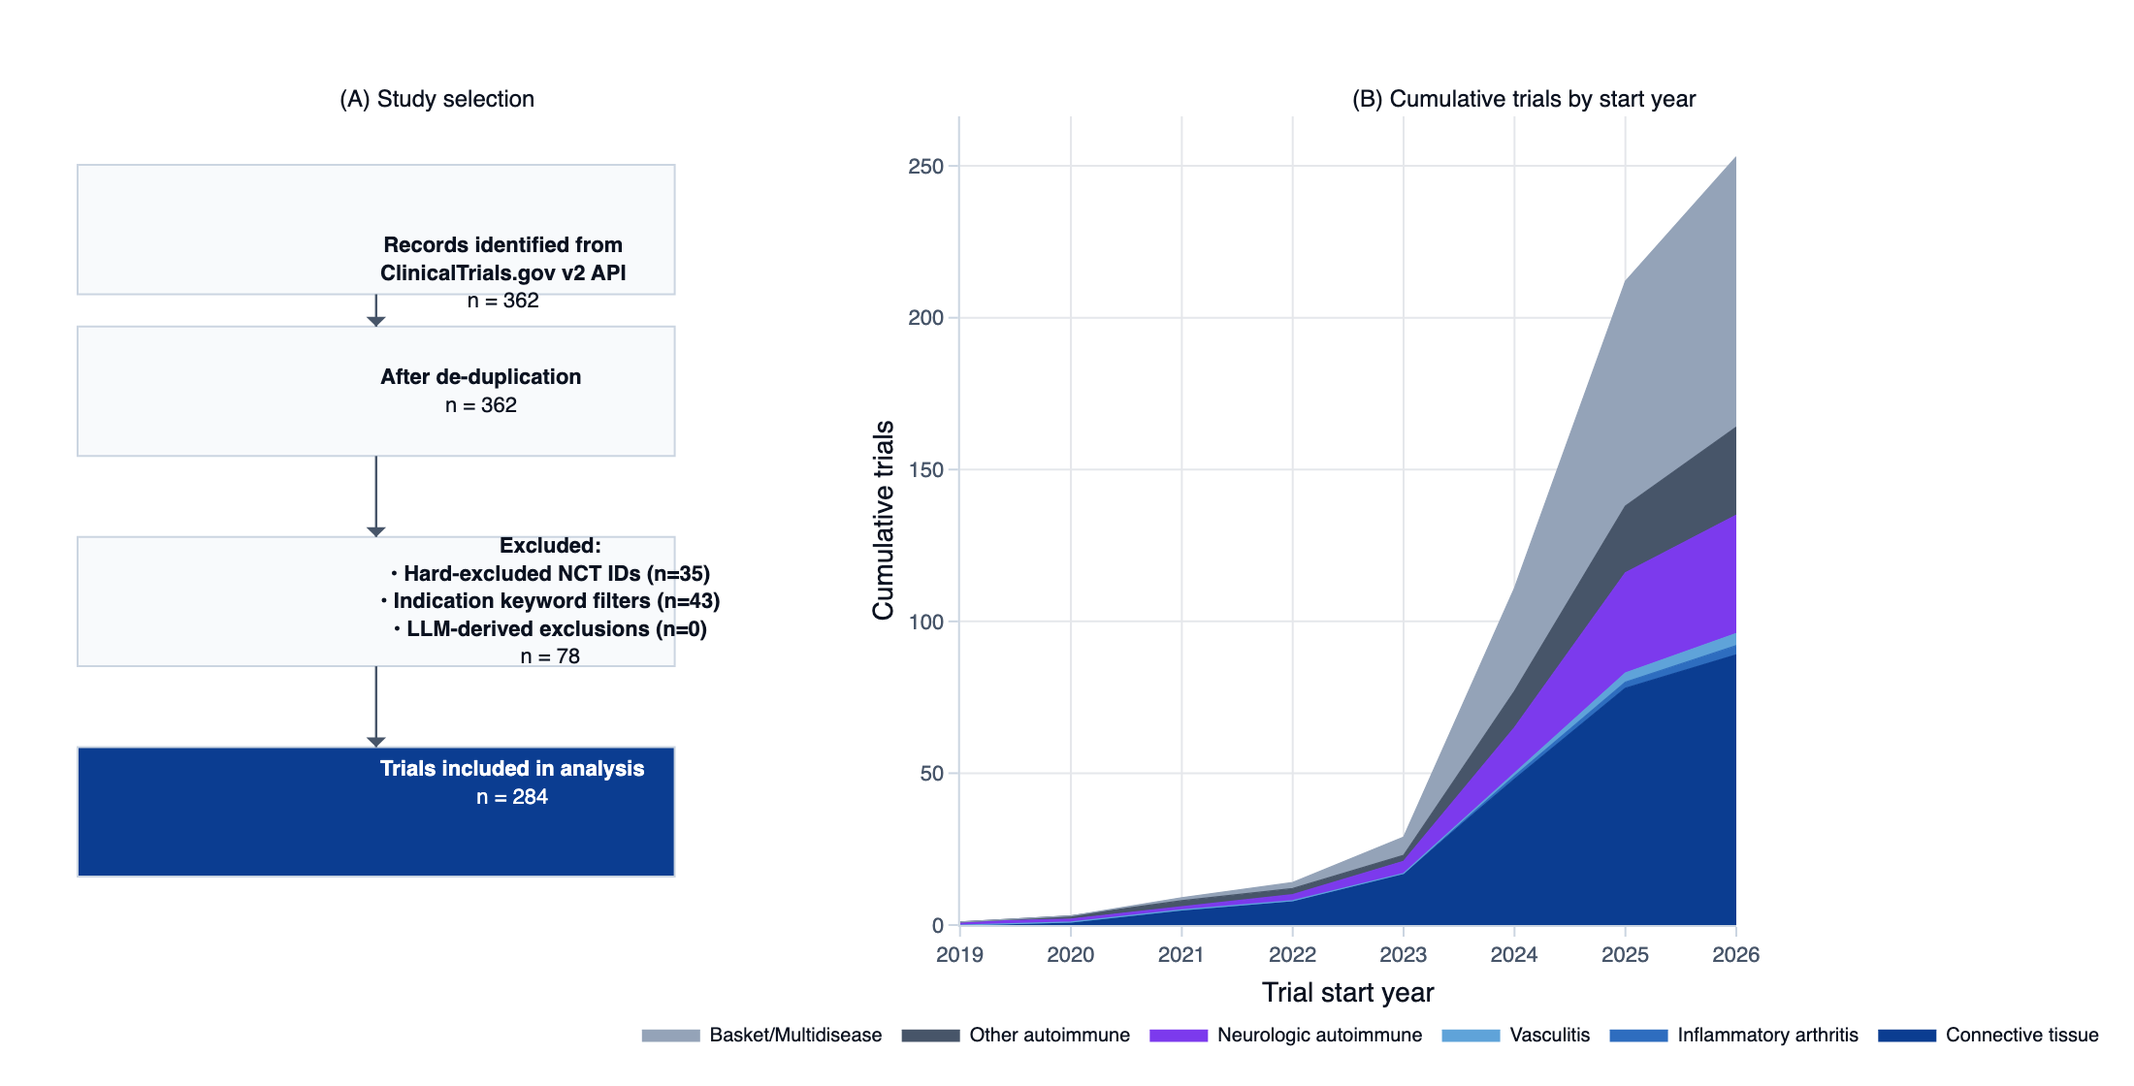
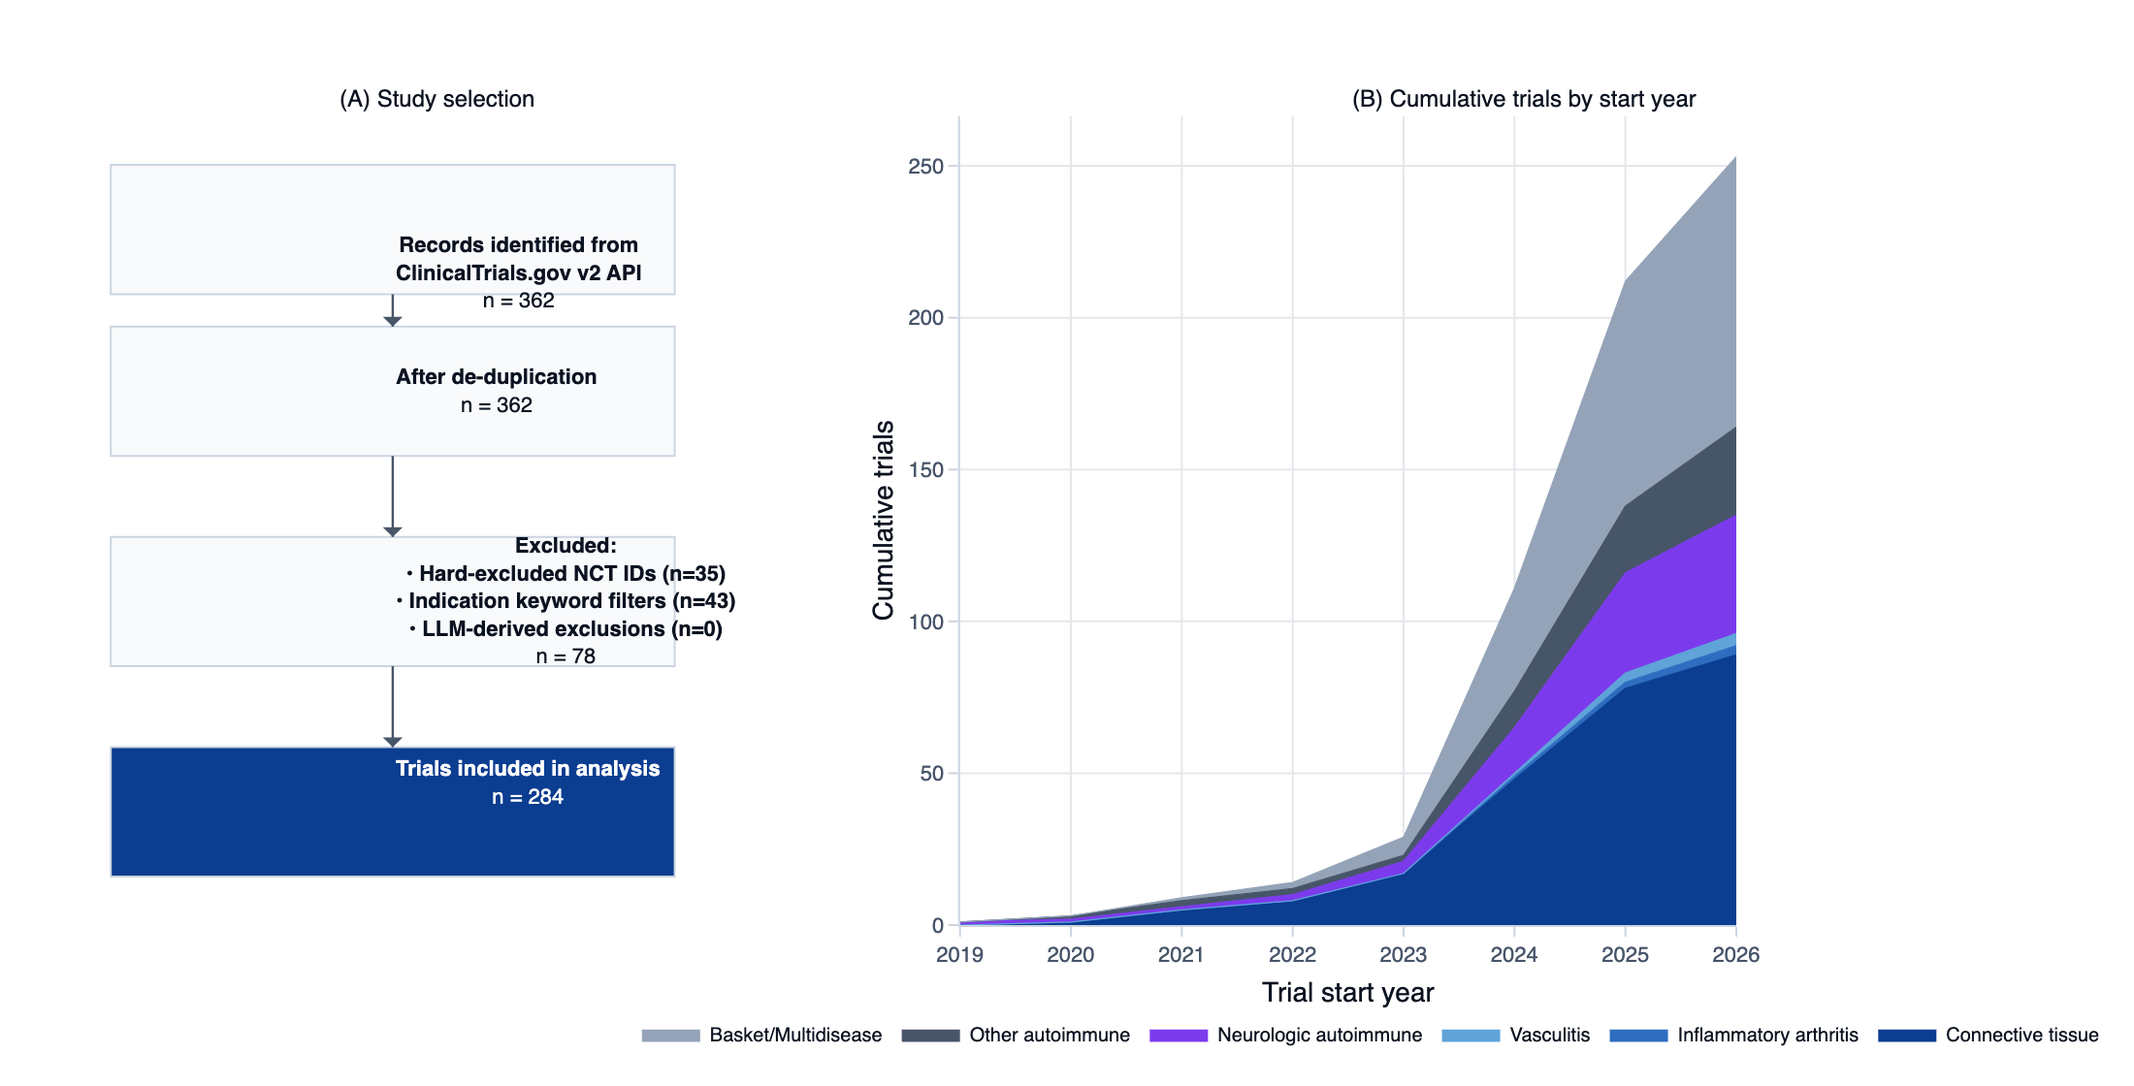
v1.1: any-mention disease coverage; fix Fig 1 alignment, Fig 7 legend
Adds an any-mention coverage view alongside the dedicated-trial counts.
Basket platforms substantially broaden enrollment opportunity for
indications with few dedicated trials:
  SLE      79 -> 141 (1.8x)
  SSc       9 ->  69 (7.7x)
  IIM      11 ->  52 (4.7x)
  Sjogren   1 ->  25 (25x)
  AAV       5 ->  22 (4.4x)
  RA        3 ->  17 (5.7x)

Manuscript updates:
- Abstract Findings: replaces "profoundly under-represented" framing
  with the dedicated-vs-any-mention distinction.
- Methods 2.4: explicitly defines the two views.
- Results 3.2: adds an any-mention paragraph; flags spondyloarthritis,
  T1D, and most dermatologic autoimmune as the genuinely-absent gap.
- Discussion 4.2: separates dedicated-programme gaps (regulatory-pathway
  concern) from access gaps (clinical availability concern); only the
  former is acute for RA / AAV / Sjogren.
- Display items: adds Table 3 (any-mention coverage) pointer.

Supplement updates:
- S2.0: notes spondyloarthritis indications as absent from the pipeline
  ontology and confirmed absent at 2026-04-25.
- S5: data manifest now reflects all four tables.

New table:
  tables/table_any_mention_coverage.csv

Figure layout fixes:
- Fig 1A: PRISMA boxes widened (x=[0.02, 0.36]) to fit "Trials included
  in analysis" without clipping; aligned with subplot title centre.
- Fig 7: bottom margin increased + legend moved to y=-0.28 so the
  "Number of trials" axis title no longer overlaps the sponsor legend.
[…]

diff --git a/scripts/make_preprint_figures.py b/scripts/make_preprint_figures.py
@@ -259,7 +259,7 @@ def fig1_prisma_growth(df: pd.DataFrame, prisma: dict):
         ("Trials included in analysis",
          f"n = {prisma['n_included']:,}", 0.14),
     ]
-    box_x_lo, box_x_hi = 0.00, 0.36  # left subplot
+    box_x_lo, box_x_hi = 0.02, 0.36  # left subplot, width 0.34 fits long labels; center ~0.19
     for i, (label, n, y) in enumerate(boxes):
         fillcolor = "#0b3d91" if i == len(boxes) - 1 else "#f8fafc"
         fontcolor = "#ffffff" if i == len(boxes) - 1 else THEME["text"]
@@ -676,12 +676,12 @@ def fig7_phase_sponsor(df: pd.DataFrame):
             hovertemplate=f"%{{y}} · {s}: %{{x}}<extra></extra>",
         ))
 
-    _layout(fig, height=420, width=900)
+    _layout(fig, height=460, width=900)
     fig.update_layout(barmode="stack",
-                      legend=dict(orientation="h", x=0.5, y=-0.12, xanchor="center",
+                      legend=dict(orientation="h", x=0.5, y=-0.28, xanchor="center",
                                   font=dict(size=10)),
-                      margin=dict(l=120, r=60, t=30, b=80))
-    fig.update_xaxes(title_text="Number of trials")
+                      margin=dict(l=120, r=60, t=30, b=120))
+    fig.update_xaxes(title_text="Number of trials", title_standoff=12)
     fig.update_yaxes(title_text="", autorange="reversed")
     _save(fig, "fig7_phase_sponsor")
 

diff --git a/preprint/manuscript.md b/preprint/manuscript.md
@@ -18,7 +18,7 @@ status: "DRAFT — Abstract to be written last; references in skeleton form"
 
 **Methods.** Reproducible registry-derived landscape analysis of CAR-T and related cell-therapy trials in autoimmune and rheumatic disease, drawn from ClinicalTrials.gov API v2 on 2026-04-25 and classified through a four-layer pipeline (LLM override, named-product lookup, keyword regex, CAR-core fallback) into seven L1 disease families with disease-level L2 detail. Tool, source code, and frozen snapshot are publicly available (DOI 10.5281/zenodo.19713049).
 
-**Findings.** Two hundred eighty-four CAR-T autoimmune trials were included after exclusion of 78 oncology, indication-mismatch, and curated false-positive records. Trial initiation grew from a single trial in 2019 to 101 in 2025 (full year) and 41 in the first four months of 2026. Connective tissue disease (n=104, 36.6%) and basket/multidisease platforms (n=98, 34.5%) co-dominated; SLE alone accounted for 79 trials (27.8% of all trials, 76% of CTD). Neurologic autoimmune disease was the largest non-rheumatic disease cluster (n=43, 15.1%), led by myasthenia gravis (n=18) rather than multiple sclerosis (n=11). Vasculitis (n=5, 1.8%) and inflammatory arthritis (n=3, 1.1%) were profoundly under-represented. CD19 monotherapy (n=128, 45.1%) and CD19/BCMA dual-targeting (n=76, 26.8%) accounted for 71.8% of trials. Allogeneic and autologous platforms reached parity in 2025-initiated trials (allogeneic 41.6%, autologous 48.5%); in-vivo CAR emerged in 2024 and rose to 12.2% of 2026-initiated trials. China hosted 178 of 256 country-attributed trials; the rest of East Asia, North America, and Europe followed at lower density.
+**Findings.** Two hundred eighty-four CAR-T autoimmune trials were included after exclusion of 78 oncology, indication-mismatch, and curated false-positive records. Trial initiation grew from a single trial in 2019 to 101 in 2025 (full year) and 41 in the first four months of 2026. Connective tissue disease (n=104, 36.6%) and basket/multidisease platforms (n=98, 34.5%) co-dominated; SLE alone accounted for 79 dedicated trials (27.8% of all trials) and was named as an eligible indication in 141 trials (49.6%) when basket platforms were included. Neurologic autoimmune disease was the largest non-rheumatic disease cluster (n=43, 15.1%), led by myasthenia gravis (n=18) rather than multiple sclerosis (n=11). Dedicated single-disease trials in rheumatoid arthritis (n=3), AAV (n=5), and Sjögren disease (n=1) were scarce, but each indication was named as eligible in many more trials when basket platforms were counted (RA in 17, AAV in 22, Sjögren in 25); spondyloarthritis indications (RA-distinct) were absent from the pipeline. CD19 monotherapy (n=128, 45.1%) and CD19/BCMA dual-targeting (n=76, 26.8%) accounted for 71.8% of trials. Allogeneic and autologous platforms reached parity in 2025-initiated trials (allogeneic 41.6%, autologous 48.5%); in-vivo CAR emerged in 2024 and rose to 12.2% of 2026-initiated trials. China hosted 178 of 256 country-attributed trials; the rest of East Asia, North America, and Europe followed at lower density.
 
 **Conclusion.** *(~50 words synthesising the landscape and forward look)*
 
@@ -63,7 +63,9 @@ Disease entities were grouped into seven L1 families: Connective tissue (SLE, SS
 
 ## 2.4 Outputs
 
-The pipeline emits a per-trial dataframe with NCT identifier, brief title, conditions, interventions, brief summary, primary endpoints, lead sponsor and sponsor sector (Academic, Industry, Government, Other), phase, overall status, start year, last-update date, enrollment count, age group, countries (pipe-delimited), and the classification fields (disease entity, target category, product type, sponsor type, classification confidence, trial design [single-disease vs basket/multidisease]). A second site-level dataframe records per-facility country, city, geocoded latitude and longitude, and recruitment status. Each export carries a `#`-prefixed provenance header with the snapshot date, applied filter state, included row count, and source URL.
+The pipeline emits a per-trial dataframe with NCT identifier, brief title, conditions, interventions, brief summary, primary endpoints, lead sponsor and sponsor sector (Academic, Industry, Government, Other), phase, overall status, start year, last-update date, enrollment count, age group, countries (pipe-delimited), and the classification fields (disease entity, target category, product type, sponsor type, classification confidence, trial design [single-disease vs basket/multidisease]). For each trial we record both `DiseaseEntity` (the primary classification, used for single-disease attribution) and `DiseaseEntities` (the pipe-delimited list of *all* indications that the trial registry text matched, including those named within basket platforms). A second site-level dataframe records per-facility country, city, geocoded latitude and longitude, and recruitment status. Each export carries a `#`-prefixed provenance header with the snapshot date, applied filter state, included row count, and source URL.
+
+We report disease coverage in two complementary views. **Dedicated-trial counts** (the modal view in Section 3.2) use `DiseaseEntity` as the primary single-disease classification and assign basket trials to a Basket/Multidisease bucket; this view answers the question *"how many trials are run for disease X as the primary indication?"* **Any-mention counts** (Section 3.2 ad fin., Table 3) use `DiseaseEntities` and tally every trial in which a given indication is named as eligible, including basket platforms; this view answers the question *"how many trials would enroll a patient with disease X?"* The two views differ substantially for indications that the field treats predominantly through basket platforms rather than dedicated single-disease programmes.
 
 ## 2.5 PRISMA-style flow
 
@@ -95,7 +97,9 @@ Connective tissue disease and basket/multidisease platforms co-dominated the lan
 
 Neurologic autoimmune disease was the largest non-rheumatologic and non-basket cluster, with 43 trials (15.1%). Within neurologic autoimmune, myasthenia gravis was the leading disease-level entity (n=18), followed by multiple sclerosis (n=11), NMOSD (n=2), and stiff-person syndrome (n=1), with 11 trials in the `Neurology_other` fallback (autoimmune encephalitis, CIDP, MOGAD, or unspecified neurologic autoimmune). Other autoimmune indications grouped under a fifth family included autoimmune cytopenias (n=16), glomerular/renal disease (n=6), endocrine autoimmune disease (n=6), dermatologic autoimmune disease (n=2), and GVHD (n=1) (Figure 2; Table 1).
 
-Two L1 families were strikingly thin. Vasculitis was represented by only 5 trials (1.8%; AAV and Behçet combined). Inflammatory arthritis (RA) was represented by 3 trials (1.1%), of which two were CAR-Treg studies. Both gaps were marked relative to the contribution of these disease groups to global rheumatology disease burden and to the volume of biological-DMARD pipelines they support.
+Two L1 families were strikingly thin under the dedicated-trial view. Vasculitis was represented by only 5 dedicated trials (1.8%; AAV and Behçet combined). Inflammatory arthritis (RA) was represented by 3 dedicated trials (1.1%), of which two were CAR-Treg studies. Spondyloarthritis indications (ankylosing spondylitis, axial spondyloarthritis, psoriatic arthritis) were absent from the cohort altogether — neither dedicated nor named in any basket platform.
+
+When basket platforms are counted alongside dedicated trials (the any-mention view; Table 3), enrollment opportunities for several rheumatologic indications are substantially broader. SLE was named as eligible in 141 trials (49.6% of the cohort; 1.8-fold the dedicated count). SSc was named in 69 (7.7-fold), IIM in 52 (4.7-fold), Sjögren disease in 25 (25-fold), AAV in 22 (4.4-fold), and RA in 17 (5.7-fold). The disparity between dedicated and any-mention counts indicates that the field treats less-frequent rheumatologic indications predominantly through industry-sponsored basket/multidisease platforms rather than through dedicated single-disease programmes. We therefore distinguish between *gaps in dedicated programmes* (a regulatory-pathway concern, since indication-specific labels generally require dedicated trials) and *gaps in patient access to investigational therapy* (a clinical-trial-availability concern). Only the former is acute for RA, AAV, Sjögren disease, and IIM; the latter is largely mitigated by the heavy basket presence. Genuine indication absence — neither dedicated nor basket-mention — applies to spondyloarthritis indications, type 1 diabetes (3 trials, all basket-mention), and most dermatologic autoimmune conditions outside pemphigus.
 
 The temporal expansion of the landscape across 2019–2026 was driven principally by connective tissue disease (chiefly SLE), with basket/multidisease platforms accelerating from 2024 onwards and neurologic autoimmune entering the pipeline in volume from 2023 (Figure 3).
 
@@ -139,7 +143,11 @@ We had hypothesised a connective-tissue-disease-dominated landscape; the actual 
 
 ## 4.2 Indication gaps relative to disease burden
 
-Two L1 families are strikingly under-represented: vasculitis (n=5; AAV and Behçet combined) and inflammatory arthritis (n=3; rheumatoid arthritis only). The mismatch with global disease burden — RA alone affects an estimated 0.5–1.0% of adults and dominates rheumatology biological-DMARD spend — is notable, and worth flagging as a strategic gap. The under-representation of RA is in part explainable: existing biological and small-molecule DMARDs deliver high response rates and the regulatory bar for CAR-T as a deep-rather-than-broad B-cell intervention is unclear in a disease where response, not refractoriness, is the modal outcome. The under-representation of AAV is harder to defend on these grounds, since severe and relapsing AAV resemble SLE in their dependence on long-lived autoreactive B-cell clones and the scarcity of treatment options at the refractory end of the spectrum [vandenBrand2023]. Three of the five vasculitis trials are AAV-focused; we anticipate this number to grow rapidly.
+Two distinct gap patterns emerge once dedicated and any-mention views are considered side by side.
+
+The **dedicated-programme gap** affects rheumatoid arthritis (3 dedicated trials, of which 2 are CAR-Treg), AAV (5 dedicated), Sjögren disease (1), and IgG4-related disease (2). The any-mention counts are substantially higher for each of these — RA in 17 trials, AAV in 22, Sjögren in 25, IgG4-RD in 9 — indicating that the field treats these indications via industry-sponsored basket platforms rather than through indication-specific programmes. The clinical-access concern is therefore more limited than the dedicated counts alone suggest: a refractory RA, AAV, or Sjögren patient currently has multiple investigational basket trials potentially open to them. The remaining and arguably more important concern is regulatory: indication-specific approvals generally require dedicated trials with the specific indication as the primary endpoint stratum, and the present pipeline configuration risks generating efficacy signals across many indications without delivering label-grade evidence for any of the under-represented ones. The under-representation of dedicated RA programmes is in part explainable — existing biological and small-molecule DMARDs deliver high response rates and the regulatory bar for CAR-T as a deep-rather-than-broad B-cell intervention is unclear in a disease where response, not refractoriness, is the modal outcome. The under-representation of dedicated AAV programmes is harder to defend on these grounds, since severe and relapsing AAV resembles SLE in its dependence on long-lived autoreactive B-cell clones and the scarcity of treatment options at the refractory end of the spectrum [vandenBrand2023].
+
+The **genuine-absence gap** is smaller but more clear-cut: the spondyloarthritis indications (ankylosing spondylitis, axial spondyloarthritis, psoriatic arthritis) are absent from the cohort altogether, with no dedicated trials and no basket-mention. Type 1 diabetes is covered only in basket platforms (n=3 mentions). Most dermatologic autoimmune conditions outside pemphigus and bullous pemphigoid are absent. The absence of spondyloarthritis is mechanistically defensible — the disease is principally driven by IL-17/IL-23 axis biology rather than by autoreactive B cells, and CAR-T directed at B-cell antigens has limited theoretical rationale here. The absence of pipeline activity for type 1 diabetes (despite a clear autoreactive cellular pathology) and most dermatologic autoimmunity (despite well-defined autoantibody targets in pemphigus, where CAAR-T platforms are emerging) is more notable as a research-priority gap.
 
 ## 4.3 Modality inflection in 2025
 
@@ -175,9 +183,11 @@ The CAR-T autoimmune pipeline is no longer in proof-of-concept: it is in industr
 
 **Figure 7.** *Phase by lead-sponsor sector.* Number of trials per phase (Early Phase 1 through Phase 3 plus Phase 1/2 and Phase 2/3 split labels), stacked by lead-sponsor sector (Academic, Industry, Government, Other). The cohort is concentrated in early-phase development (Early Phase 1 + Phase 1 + Phase 1/2 = 237 of 284, 83.5%). Academic and Industry sponsors are near-balanced overall (54.2% vs 45.8%). [`figures/preprint/fig7_phase_sponsor.pdf`](figures/preprint/fig7_phase_sponsor.pdf)
 
-**Table 1.** *Trial counts by L1 disease family, with L2 detail and recruiting status.* See `tables/table1_family_counts.csv` (to be generated from `snapshots/2026-04-25/trials.csv`).
+**Table 1.** *Trial counts by L1 disease family, with L2 detail, recruiting status, and total enrollment.* See [`tables/table1_family_counts.csv`](tables/table1_family_counts.csv).
 
-**Table 2.** *Top 10 sponsors and top 15 named CAR-T products with target, modality, lead phase, and lead indication.* See `tables/table2_sponsors_products.csv` (to be generated).
+**Table 2.** *Top 10 sponsors and top 15 named CAR-T products, with target, modality, and lead indication.* See [`tables/table2a_top_sponsors.csv`](tables/table2a_top_sponsors.csv) and [`tables/table2b_top_products.csv`](tables/table2b_top_products.csv).
+
+**Table 3.** *Disease coverage — dedicated single-disease trials versus any-mention (single + basket platforms naming the indication).* See [`tables/table_any_mention_coverage.csv`](tables/table_any_mention_coverage.csv). Highlights: SLE 79/141 (1.8×), SSc 9/69 (7.7×), IIM 11/52 (4.7×), Sjögren 1/25 (25×), AAV 5/22 (4.4×), RA 3/17 (5.7×).
 
 ---
 

diff --git a/preprint/supplement.md b/preprint/supplement.md
@@ -63,6 +63,27 @@ layer; the LLM second-opinion is more often used to *re-classify* than to
 
 # S2 · Classification ontology
 
+## S2.0 Indications absent from the pipeline
+
+The classification pipeline at commit `540b9c1` does not include patterns for
+the following indications, which are therefore neither dedicated nor
+basket-mention captured in the analysis:
+
+- **Spondyloarthritis** (ankylosing spondylitis, axial spondyloarthritis,
+  psoriatic arthritis) — confirmed absent at 2026-04-25 by both
+  pipeline and free-text scan; the absence is mechanistically consistent
+  with the IL-17/IL-23 axis biology of these diseases, but the pipeline
+  would not detect a CAR-T spondyloarthritis trial if one were registered.
+- **Reactive and crystal arthropathies** — out of scope for B-cell-directed
+  cell therapy; absence is expected.
+- Most **dermatologic autoimmune** conditions outside pemphigus and bullous
+  pemphigoid — partial coverage only via the dermatologic-autoimmune L2
+  bucket inside Other autoimmune.
+
+Curation queue: an `add_pattern` ticket for spondyloarthritis indications
+should be opened if a CAR-T spondyloarthritis trial is registered in a
+future snapshot.
+
 ## S2.1 Disease-entity to L1-family mapping (locked at commit `540b9c1`)
 
 | Disease entity (pipeline.py output) | L1 family |
@@ -236,8 +257,10 @@ adherence to the PRISMA reporting guideline.
 | `snapshots/2026-04-25/prisma.json` | — | — | Trial-selection ledger (n_fetched, n_after_dedup, n_hard_excluded, n_indication_excluded, n_llm_excluded, n_total_excluded, n_included). |
 | `snapshots/2026-04-25/metadata.json` | — | — | Snapshot date, UTC timestamp, statuses filter, counts, API base URL. |
 | `figures/preprint/fig{1..7}.{pdf,png}` | — | — | Static figures generated by `scripts/make_preprint_figures.py`. |
-| `tables/table1_family_counts.csv` | *to be generated* | | L1 family with L2 detail and recruiting status. |
-| `tables/table2_sponsors_products.csv` | *to be generated* | | Top 10 sponsors and top 15 named products. |
+| `tables/table1_family_counts.csv` | 30 | 5 | L1 family with L2 detail, recruiting status, and total enrollment. |
+| `tables/table2a_top_sponsors.csv` | 10 | 5 | Top 10 lead sponsors by trial count. |
+| `tables/table2b_top_products.csv` | 15 | 5 | Top 15 named CAR-T products with target, modality, leading indication. |
+| `tables/table_any_mention_coverage.csv` | 12 | 5 | Disease coverage: dedicated vs any-mention (single + basket platforms naming the indication). |
 | `tables/validation_sample.csv` | 100 | — | Stratified random validation sample (to be generated; see §S3). |
 
 ---
